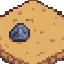
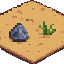
better tiles

diff --git a/src/core/HexMapService.ts b/src/core/HexMapService.ts
@@ -398,6 +398,7 @@ export class HexMapService {
         const cr = Math.round(camera.r);
         const tiles = getTilesInRadius(cq, cr, camera.radius);
         const now = performance.now();
+        const overlayRecords: Array<{ img: HTMLImageElement; x: number; y: number; q: number; r: number; opacity: number }> = [];
         for (const t of tiles) {
             const dist = hexDistance(camera, t);
             const opacity = (() => {
@@ -481,6 +482,18 @@ export class HexMapService {
                 ctx.globalAlpha = 0.5 * opacity;
                 ctx.fillText(String(centerDist), x - 2, y - 2);
                 ctx.restore();
+            }
+            // NEW: collect optional overlay second layer (only for discovered tiles)
+            if (t.discovered) {
+                const overlayKey = this.getTileOverlayKey(t);
+                if (overlayKey) {
+                    const ovImg = this._images[overlayKey];
+                    if (ovImg) {
+                        const off = this.getTileOverlayOffset(t);
+                        // store axial coords for later layering sort (r,q)
+                        overlayRecords.push({ img: ovImg, x: x - HEX_SIZE + off.x, y: y - HEX_SIZE + off.y, q: t.q, r: t.r, opacity });
+                    }
+                }
             }
             // NEW: active task highlight overlay (after drawing base tile)
             const activeTasksForTile = taskStore.tasksByTile[t.id];
@@ -598,7 +611,7 @@ export class HexMapService {
                 if (hexDistance(camera, pc) > camera.radius + 1) continue;
                 const last = pc === opts.pathCoords[opts.pathCoords.length - 1];
                 this.drawHexHighlight(ctx, pc.q, pc.r,
-                    last ? 'rgba(216,244,255,0.18)' : 'rgba(250,253,255,0.18)',
+                    last ? 'rgba(216,244,255,0.0)' : 'rgba(250,253,255,0.0)',
                     last ? '#dbedff' : '#daf0ff',
                     opacity);
             }
@@ -613,7 +626,7 @@ export class HexMapService {
             }
             const remaining = m.path.slice(Math.max(0, currentIndex + 1));
             // prepend remaining with current position to highlight from there
-            remaining.unshift({q: selectedHero.q, r: selectedHero.r});
+            //remaining.unshift({q: selectedHero.q, r: selectedHero.r});
             if (remaining.length) {
                 for (let i = 0; i < remaining.length; i++) {
                     const pc = remaining[i]!;
@@ -626,7 +639,7 @@ export class HexMapService {
                     const isLast = i === remaining.length - 1; // destination/target
                     // Slightly different color scheme for active movement path
                     this.drawHexHighlight(ctx, pc.q, pc.r,
-                        isLast ? 'rgba(132,196,255,0.14)' : 'rgba(132,196,255,0.22)',
+                        isLast ? 'rgba(132,196,255,0.0)' : 'rgba(132,196,255,0.0)',
                         isLast ? '#6fb8ff' : '#9fd8ff',
                         opacity);
                 }
@@ -639,7 +652,7 @@ export class HexMapService {
                         const f = this.computeFade(dist, camera.innerRadius, camera.radius);
                         return f * f;
                     })();
-                    this.drawHexHighlight(ctx, tgt.q, tgt.r, 'rgba(132,196,255,0.25)', '#9fd8ff', opacity);
+                    this.drawHexHighlight(ctx, tgt.q, tgt.r, 'rgba(132,196,255,0.0)', '#9fd8ff', opacity);
                 }
             }
         }
@@ -653,7 +666,7 @@ export class HexMapService {
                     const f = this.computeFade(dist, camera.innerRadius, camera.radius);
                     return f * f;
                 })();
-                this.drawHexHighlight(ctx, ht.q, ht.r, 'rgba(255, 227, 122, 0.15)', '#d0b23d', opacity);
+                this.drawHexHighlight(ctx, ht.q, ht.r, 'rgba(255, 227, 122, 0)', '#d0b23d', opacity);
             }
         }
 
@@ -670,14 +683,22 @@ export class HexMapService {
             }
         }
 
-        // Heroes
-        this.drawHeroes(ctx, opts.hoveredHero, selectedHeroIdle);
-
+        // Heroes & overlays combined layering
+        this.drawHeroes(ctx, opts.hoveredHero, selectedHeroIdle, overlayRecords);
         ctx.restore();
     }
 
-    private drawHeroes(ctx: CanvasRenderingContext2D, hoveredHero: Hero | null, selectedHeroIdle: boolean) {
-        if (!this._heroImagesLoaded) return;
+    private drawHeroes(ctx: CanvasRenderingContext2D, hoveredHero: Hero | null, selectedHeroIdle: boolean, overlayRecords: Array<{ img: HTMLImageElement; x: number; y: number; q: number; r: number; opacity: number }> = []) {
+        // If hero assets not yet loaded, just draw overlays and return
+        if (!this._heroImagesLoaded) {
+            for (const ov of overlayRecords) {
+                ctx.globalAlpha = ov.opacity;
+                ctx.imageSmoothingEnabled = false;
+                ctx.drawImage(ov.img, ov.x, ov.y, this.TILE_DRAW_SIZE, this.TILE_DRAW_SIZE);
+            }
+            ctx.globalAlpha = 1;
+            return;
+        }
         const radius = camera.radius + 1;
         // Rebuild layout map (group heroes by tile first)
         const map = new Map<string, Hero[]>();
@@ -695,7 +716,7 @@ export class HexMapService {
 
         const now = performance.now();
 
-        // Build render records with interpolated positions so we can sort by vertical stacking (destY)
+        // Build hero render records
         const renderRecords: Array<{
             hero: Hero;
             dist: number;
@@ -753,19 +774,33 @@ export class HexMapService {
             });
         }
 
-        // Sort by vertical stacking: smaller destY (visually higher) first so lower heroes (larger destY) draw last (on top)
-        renderRecords.sort((a, b) => {
-            if (a.destY !== b.destY) return a.destY - b.destY; // top-to-bottom
-            if (a.destX !== b.destX) return a.destX - b.destX; // left-to-right tie-break
-            return a.hero.id.localeCompare(b.hero.id); // stable final tie-break
+        // Merge overlays and heroes using axial coordinate ordering (r then q ascending).
+        type LayerRec = { kind: 'overlay'; ov: { img: HTMLImageElement; x: number; y: number; q: number; r: number; opacity: number } } | { kind: 'hero'; rec: typeof renderRecords[number] };
+        const layers: LayerRec[] = [];
+        for (const ov of overlayRecords) layers.push({ kind: 'overlay', ov });
+        for (const rr of renderRecords) layers.push({ kind: 'hero', rec: rr });
+        layers.sort((a, b) => {
+            const ar = a.kind === 'overlay' ? a.ov.r : tileIndex[axialKey(a.rec.hero.q, a.rec.hero.r)] ? a.rec.hero.r+1 : a.rec.destY; // hero.r available
+            const br = b.kind === 'overlay' ? b.ov.r : tileIndex[axialKey(b.rec.hero.q, b.rec.hero.r)] ? b.rec.hero.r : b.rec.destY;
+            if (ar !== br) return ar - br; // smaller r ("lower" coord) first
+            const aq = a.kind === 'overlay' ? a.ov.q : a.rec.hero.q;
+            const bq = b.kind === 'overlay' ? b.ov.q : b.rec.hero.q;
+            if (aq !== bq) return aq - bq; // then q
+            // Tie-break: if same tile, draw overlay before hero so hero remains on top (overlay NOT above hero on same tile)
+            if (a.kind !== b.kind) return a.kind === 'overlay' ? -1 : 1;
+            if (a.kind === 'hero' && b.kind === 'hero') return a.rec.hero.id.localeCompare(b.rec.hero.id);
+            return 0;
         });
-
-        // Store sorted hero order for picking (draw order ascending; picking iterates reversed to target topmost)
-        this._sortedHeroes = renderRecords.map(r => r.hero);
-
-        // Draw pass
-        for (const rec of renderRecords) {
-            const {hero: h, img, pos, interp, destX, destY, opacity, frameIndex, animRow} = rec;
+        this._sortedHeroes = layers.filter(l => l.kind === 'hero').map(l => (l as any).rec.hero);
+        for (const layer of layers) {
+            if (layer.kind === 'overlay') {
+                const {ov} = layer;
+                ctx.globalAlpha = ov.opacity;
+                ctx.imageSmoothingEnabled = false;
+                ctx.drawImage(ov.img, ov.x, ov.y, this.TILE_DRAW_SIZE, this.TILE_DRAW_SIZE);
+                continue;
+            }
+            const { hero: h, img, pos, interp, destX, destY, opacity, frameIndex, animRow } = layer.rec;
             const x = interp.x;
             const y = interp.y;
             // Shadow first
@@ -847,68 +882,29 @@ export class HexMapService {
         ctx.globalAlpha = 1;
     }
 
-    private computeTileHeroOffsets(list: Hero[]): Record<string, { x: number; y: number }> {
-        const result: Record<string, { x: number; y: number }> = {};
-        const count = list.length;
-        if (count === 0) return result;
-        if (count === 1) {
-            result[list[0]!.id] = {x: 12, y: 0};
-            return result;
-        }
-        if (count === 2) {
-            result[list[0]!.id] = {x: -5, y: 0};
-            result[list[1]!.id] = {x: 32, y: 0};
-            return result;
-        }
-        if (count === 3) {
-            result[list[0]!.id] = {x: -5, y: -2};
-            result[list[1]!.id] = {x: 12, y: 8};
-            result[list[2]!.id] = {x: 32, y: -2};
-            return result;
-        }
-        if (count === 4) {
-            result[list[0]!.id] = {x: 12, y: -10};
-            result[list[1]!.id] = {x: -7, y: 4};
-            result[list[2]!.id] = {x: 32, y: 4};
-            result[list[3]!.id] = {x: 12, y: 18};
-            return result;
-        }
-        if (count === 5) {
-            result[list[0]!.id] = {x: 16, y: -10};
-            result[list[1]!.id] = {x: -7, y: 4};
-            result[list[2]!.id] = {x: 32, y: 4};
-            result[list[3]!.id] = {x: 10, y: 8};
-            result[list[4]!.id] = {x: 16, y: 22};
-            return result;
-        }
-        if (count === 6) {
-            result[list[0]!.id] = {x: 16, y: -12};
-            result[list[1]!.id] = {x: -10, y: 0};
-            result[list[2]!.id] = {x: 38, y: 0};
-            result[list[3]!.id] = {x: 0, y: 12};
-            result[list[4]!.id] = {x: 28, y: 16};
-            result[list[5]!.id] = {x: 16, y: 28};
-            return result;
-        }
-        const span = count - 1;
-        for (let i = 0; i < count; i++) {
-            const offset = (i - span / 2) * this.HERO_OFFSET_SPACING;
-            result[list[i]!.id] = {x: offset, y: 0};
-        }
-        return result;
-    }
-
-    private getTileImageKey(t: Tile): string | null {
+    // NEW: resolve optional overlay key (variant override > base)
+    private getTileOverlayKey(t: Tile): string | null {
         if (!t.terrain) return null;
         const def: any = (TERRAIN_DEFS as any)[t.terrain];
-        if (t.variant) {
-            // Variant override assetKey else variant key
-            const variantDef = def?.variations?.find((v: any) => v.key === t.variant);
-            const vk = variantDef?.assetKey || t.variant;
-            if (this.tileImgSources[vk]) return vk;
+        let overlayKey: string | undefined = def?.overlayAssetKey;
+        if (t.variant && def?.variations) {
+            const vDef = def.variations.find((v: any) => v.key === t.variant);
+            if (vDef?.overlayAssetKey) overlayKey = vDef.overlayAssetKey;
+            if(vDef?.overlayAssetKey === false) overlayKey = undefined;
         }
-        const baseKey = def?.assetKey || t.terrain;
-        return this.tileImgSources[baseKey] ? baseKey : null;
+        if (!overlayKey) return null;
+        return this.tileImgSources[overlayKey] ? overlayKey : null;
+    }
+
+    private getTileOverlayOffset(t: Tile): { x: number; y: number } {
+        if (!t.terrain) return {x:0,y:0};
+        const def: any = (TERRAIN_DEFS as any)[t.terrain];
+        let offset = def?.overlayOffset || {x:0,y:0};
+        if (t.variant && def?.variations) {
+            const vDef = def.variations.find((v: any) => v.key === t.variant);
+            if (vDef?.overlayOffset) offset = vDef.overlayOffset;
+        }
+        return offset || {x:0,y:0};
     }
 
     private async loadTileImages() {
@@ -1137,5 +1133,37 @@ export class HexMapService {
         ctx.lineTo(x, y + r);
         ctx.quadraticCurveTo(x, y, x + r, y);
         ctx.closePath();
+    }
+
+    // RESTORED: compute hero offsets by number of heroes on a tile
+    private computeTileHeroOffsets(list: Hero[]): Record<string, { x: number; y: number }> {
+        const result: Record<string, { x: number; y: number }> = {};
+        const count = list.length;
+        if (count === 0) return result;
+        if (count === 1) { result[list[0]!.id] = {x: 12, y: 0}; return result; }
+        if (count === 2) { result[list[0]!.id] = {x: -5, y: 0}; result[list[1]!.id] = {x: 32, y: 0}; return result; }
+        if (count === 3) { result[list[0]!.id] = {x: -5, y: -2}; result[list[1]!.id] = {x: 12, y: 8}; result[list[2]!.id] = {x: 32, y: -2}; return result; }
+        if (count === 4) { result[list[0]!.id] = {x: 12, y: -10}; result[list[1]!.id] = {x: -7, y: 4}; result[list[2]!.id] = {x: 32, y: 4}; result[list[3]!.id] = {x: 12, y: 18}; return result; }
+        if (count === 5) { result[list[0]!.id] = {x: 16, y: -10}; result[list[1]!.id] = {x: -7, y: 4}; result[list[2]!.id] = {x: 32, y: 4}; result[list[3]!.id] = {x: 10, y: 8}; result[list[4]!.id] = {x: 16, y: 22}; return result; }
+        if (count === 6) { result[list[0]!.id] = {x: 16, y: -12}; result[list[1]!.id] = {x: -10, y: 0}; result[list[2]!.id] = {x: 38, y: 0}; result[list[3]!.id] = {x: 0, y: 12}; result[list[4]!.id] = {x: 28, y: 16}; result[list[5]!.id] = {x: 16, y: 28}; return result; }
+        const span = count - 1;
+        for (let i = 0; i < count; i++) {
+            const offset = (i - span / 2) * this.HERO_OFFSET_SPACING;
+            result[list[i]!.id] = {x: offset, y: 0};
+        }
+        return result;
+    }
+
+    // RESTORED: original tile image key resolution (variant overrides base)
+    private getTileImageKey(t: Tile): string | null {
+        if (!t.terrain) return null;
+        const def: any = (TERRAIN_DEFS as any)[t.terrain];
+        if (t.variant) {
+            const variantDef = def?.variations?.find((v: any) => v.key === t.variant);
+            const vk = variantDef?.assetKey || t.variant;
+            if (this.tileImgSources[vk]) return vk;
+        }
+        const baseKey = def?.assetKey || t.terrain;
+        return this.tileImgSources[baseKey] ? baseKey : null;
     }
 }

diff --git a/src/core/terrainDefs.ts b/src/core/terrainDefs.ts
@@ -16,15 +16,12 @@ export interface TerrainDef {
     // --- Movement (optional) ---
     moveCost?: number;
     // --- Variations (optional) ---
-    // Lightweight variant tiles that inherit all properties of the base terrain.
-    // Variants provide alternate art (and potentially future overrides) selected AFTER terrain generation.
-    // Each variant has a relative weight and optional neighbor side constraints controlling placement.
-    // Example use: coastline versions of plains that only appear when a given side borders water OR an undiscovered tile.
     variations?: TerrainVariationDef[];
-    // Relative weight for choosing "no variation" when variants are available. Defaults to sum(variant weights) if omitted.
     variationBaseWeight?: number;
-    // optional override for image filename base
     assetKey?: string;
+    // NEW: optional second render layer (unmasked) drawn with vertical stacking among heroes/other overlays
+    overlayAssetKey?: string; // image key (filename without extension) for overlay (e.g. 'cactus_top')
+    overlayOffset?: { x: number; y: number }; // optional pixel offset applied to overlay drawing (top-left origin)
 }
 
 // Side names reused from world.ts (keep string literals to avoid circular import)
@@ -40,9 +37,11 @@ export interface TerrainVariationDef {
     key: string; // unique variant image key (e.g. 'plains_coast_a')
     weight?: number; // relative selection weight among other valid variants
     constraints?: TerrainVariationConstraint[]; // all constraints must pass for variant to be eligible
-    // Optional timed growth configuration: after ageMs, variant auto-transitions to next variant (or null for base)
     assetKey?: string; // optional override for image filename base if different from key
     growth?: { next: string | null; ageMs: number }; // biome scaling moved to biomes
+    // NEW: optional overlay image key for this specific variant (overrides base terrain overlayAssetKey if present)
+    overlayAssetKey?: string;
+    overlayOffset?: { x: number; y: number }; // variant-specific overlay offset overrides base terrain overlayOffset
 }
 
 interface TerrainDefsMap {
@@ -64,6 +63,8 @@ export const TERRAIN_DEFS: TerrainDefsMap = {
         adjacency: {},
         preserveIsolation: true,
         moveCost: 3,
+        overlayAssetKey: 'towncenter_overlay',
+        overlayOffset: { x: 0, y: -11}
     },
     forest: {
         color: '#14532d',
@@ -75,9 +76,11 @@ export const TERRAIN_DEFS: TerrainDefsMap = {
         },
         moveCost: 2.5,
         variations: [
-            {key: 'chopped_forest', weight: 5},
-            {key: 'young_forest', weight: 2, growth: {next: null, ageMs: 600000}},
+            {key: 'chopped_forest', weight: 5, overlayAssetKey: false},
+            {key: 'young_forest', weight: 2, growth: {next: null, ageMs: 600000}, overlayAssetKey: false},
         ],
+        overlayAssetKey: 'forest_overlay',
+        overlayOffset: { x: 0, y: -4}
     },
     plains: {
         color: '#16a34a',
@@ -122,6 +125,8 @@ export const TERRAIN_DEFS: TerrainDefsMap = {
         },
         moveCost: 5,
         assetKey: 'mountains',
+        overlayAssetKey: 'mountains_overhang',
+        overlayOffset: { x: 0, y: -4 }
     },
     dirt: {
         minDistanceFromCenter: 6,
